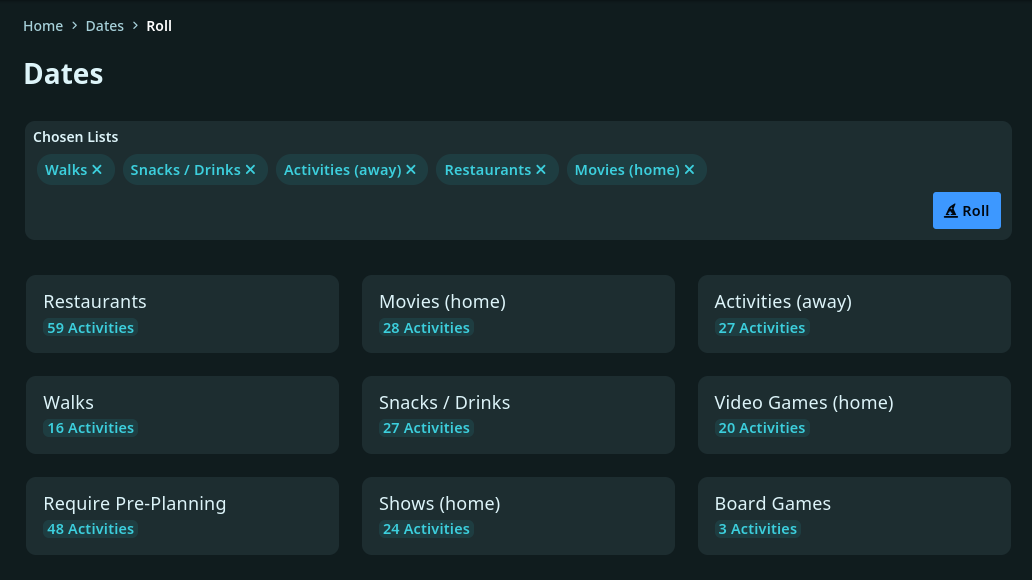
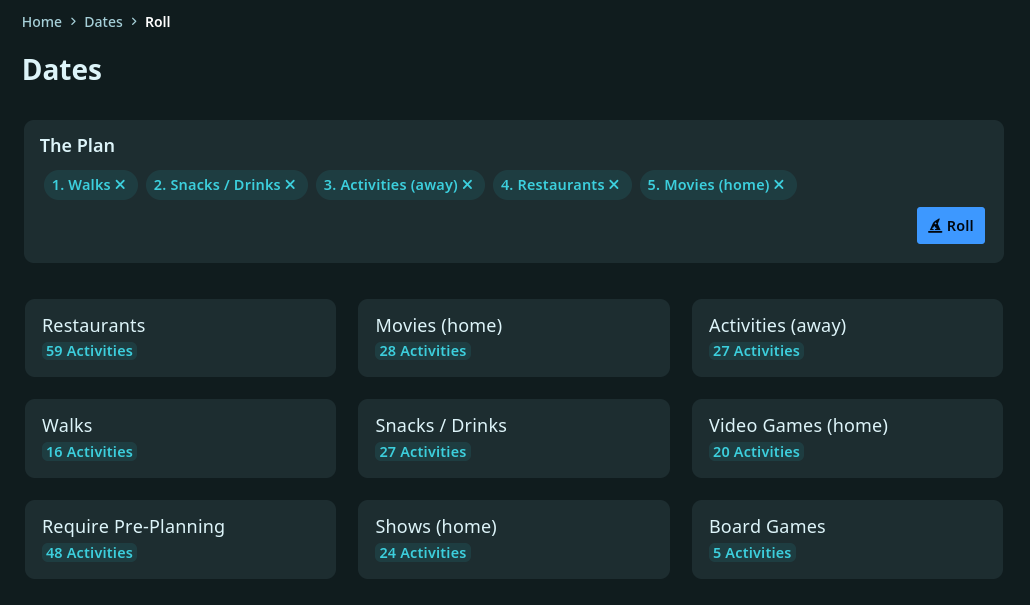
Prevent duplicate additions
This adds some extra validation and will try and avoid creating duplicates when adding a new category/list/activity.

diff --git a/src/lib/Home.svelte b/src/lib/Home.svelte
@@ -11,29 +11,36 @@
 	<span>Dice Chest</span>
 </h1>
 
-<p>Welcome to Dice Chest!</p>
+<div>
+	<p>Welcome to Dice Chest!</p>
 
-<p>
-	Get started by <a href={linkGen.categories.new()} class="inline-link">creating some categories</a
-	>. You can also create and view your categories from the sidebar menu.
-</p>
+	<p>
+		Get started by <a href={linkGen.categories.new()} class="inline-link"
+			>creating some categories</a
+		>. You can also create and view your categories from the sidebar menu.
+	</p>
 
-<p>
-	For more detailed information, check out <a href="/help" class="inline-link">the help guide</a>.
-</p>
+	<p>
+		For more detailed information, check out <a href="/help" class="inline-link">the help guide</a>.
+	</p>
+</div>
 
 <h2>Categories</h2>
 <div class="card-list">
 	{#each categories as category}
-		<a href={linkGen.categories.show(category.id)} class="card clickable p-4">
-			<div class="card-title p-0 f-row justify-content-between align-items-start">
-				<div class="card-title p-0">{category.name}</div>
-				<a href={linkGen.categories.roll(category.id)} class="button primary small" title="Roll">
-					<Icon icon="hat-wizard" variant="icon-only" />
-					<span class="sr-only">Roll</span>
-				</a>
-			</div>
-		</a>
+		<div class="card clickable card-split">
+			<a class="card-title card-left" href={linkGen.categories.show(category.id)}>
+				{category.name}
+			</a>
+			<a
+				href={linkGen.categories.roll(category.id)}
+				class="button primary small card-right"
+				title="Roll"
+			>
+				<Icon icon="hat-wizard" variant="icon-only" />
+				<span class="sr-only">Roll</span>
+			</a>
+		</div>
 	{:else}
 		<div class="empty-grid">
 			<p>You don't have any categories yet.</p>

diff --git a/src/routes/activity-lists/[activityListId]/+page.svelte b/src/routes/activity-lists/[activityListId]/+page.svelte
@@ -23,18 +23,24 @@
 
 <div class="card-list">
 	{#each data.activities as activity}
-		<a class="card clickable p-4" href={linkGen.activities.show(activity.id)}>
-			<div class="card-title p-0 f-row justify-content-between align-items-start">
-				<span>{activity.name}</span>
-				<a href={linkGen.activities.edit(activity.id)} class="button tertiary small" title="Edit">
-					<Icon icon="pen" variant="icon-only" />
-					<span class="sr-only">Edit</span>
-				</a>
-			</div>
-			{#if activity.description}
-				<div class="card-body sx-font-size-2 px-0 muted">{activity.description}</div>
-			{/if}
-		</a>
+		<div class="card clickable card-split">
+			<a class="card-left" href={linkGen.activities.show(activity.id)}>
+				<span class="card-title">
+					{activity.name}
+				</span>
+				{#if activity.description}
+					<p class="card-body sx-font-size-2 p-0 m-0 muted">{activity.description}</p>
+				{/if}
+			</a>
+			<a
+				href={linkGen.activities.edit(activity.id)}
+				class="button tertiary small card-right"
+				title="Edit"
+			>
+				<Icon icon="pen" variant="icon-only" />
+				<span class="sr-only">Edit {activity.name}</span>
+			</a>
+		</div>
 	{:else}
 		<div class="empty-grid">
 			<p>You don't have any activities in this list yet.</p>

diff --git a/src/routes/activity-lists/[activityListId]/activities/new/bulk/+page.svelte b/src/routes/activity-lists/[activityListId]/activities/new/bulk/+page.svelte
@@ -13,13 +13,20 @@
 	<textarea name="activitiesRaw" bind:value={bulkActivities} use:focus />
 
 	{#if activities.length}
-		<Fieldset legend="Activities Detected">
+		<Fieldset legend="Activities that will be created">
 			<ul>
 				{#each activities as act}
 					<li>
 						{act}
 						{#if act.length < 2}
 							<span class="sx-badge-red">Too short!</span>
+						{/if}
+						{#if alreadyIncluded(act)}
+							<span
+								class="sx-badge-orange"
+								title="An activity with this name already exists, a duplicate will not be created."
+								>Already exists, skipping</span
+							>
 						{/if}
 					</li>
 				{/each}
@@ -58,7 +65,8 @@
 		)
 	);
 
-	$: activitiesStringified = JSON.stringify(activities);
+	// skip adding duplicates
+	$: activitiesStringified = JSON.stringify(activities.filter((name) => !alreadyIncluded(name)));
 
 	$: disabled = checkDisabled(activities);
 
@@ -73,5 +81,9 @@
 			return true;
 		}
 		return false;
+	}
+
+	function alreadyIncluded(name: string) {
+		return data.activities.some((act) => act.name.toLowerCase() === name.trim().toLowerCase());
 	}
 </script>

diff --git a/src/routes/categories/[categoryId]/roll/+page.svelte b/src/routes/categories/[categoryId]/roll/+page.svelte
@@ -7,12 +7,15 @@
 </div>
 
 <div class="f-column gap-6">
-	<Fieldset legend="Chosen Lists">
+	<Fieldset legend="The Plan" size="large">
 		{#if !chosen.length}
-			<p class="muted">Select one or more activity lists from the options below</p>
+			<p class="muted text-align-center">
+				Select a sequence of activity lists below to plan your event.
+			</p>
 		{:else}
 			{#each chosen as choice, index}
 				<button class="sx-badge-cyan pill p-2" on:click={() => removeChoice(index)}>
+					{index + 1}.
 					{choice.name}
 					<Icon icon="times" />
 				</button>
@@ -44,10 +47,11 @@
 	import { Breadcrumbs, Fieldset, Icon } from 'sheodox-ui';
 	import { breadcrumbGen, linkGen } from '$lib/breadcrumbs';
 	import Title from '$lib/Title.svelte';
+	import type { ActivityList } from '$lib/types';
 
 	export let data;
 
-	let chosen: (typeof data)['activityLists'] = [];
+	let chosen: (ActivityList & { activityCount: number })[] = [];
 	$: chosenIds = chosen.map(({ id }: { id: string }) => id).join(',');
 
 	// todo use a real type

diff --git a/src/routes/activity-lists/[activityListId]/activities/new/+page.server.ts b/src/routes/activity-lists/[activityListId]/activities/new/+page.server.ts
@@ -1,18 +1,20 @@
-import { error, fail, redirect } from '@sveltejs/kit';
+import { error, fail } from '@sveltejs/kit';
 import type { Actions, PageServerLoad } from './$types';
-import { linkGen } from '$lib/breadcrumbs';
 import { ClientResponseError } from 'pocketbase';
 import { pbErrorToErrorString } from '$lib/util';
-import type { ActivityList, Category } from '$lib/types';
+import type { Activity, ActivityList, Category } from '$lib/types';
+
+const activityExpand = 'activity(activityList)';
 
 export const load = (async ({ locals, params }) => {
 	const activityList = await locals.pb
 		.collection('activity_list')
-		.getOne(params.activityListId, { expand: 'category' })
+		.getOne(params.activityListId, { expand: `category,${activityExpand}` })
 		.then(structuredClone);
 
 	return {
 		activityList: activityList as ActivityList,
+		activities: ((activityList as any).expand[activityExpand] as Activity[]) ?? [],
 		category: (activityList as any).expand.category as Category
 	};
 }) satisfies PageServerLoad;

diff --git a/src/routes/categories/[categoryId]/activity-lists/new/+page.server.ts b/src/routes/categories/[categoryId]/activity-lists/new/+page.server.ts
@@ -3,14 +3,19 @@ import type { Actions, PageServerLoad } from './$types';
 import { linkGen } from '$lib/breadcrumbs';
 import { pbErrorToErrorString } from '$lib/util';
 import { ClientResponseError } from 'pocketbase';
-import type { Category } from '$lib/types';
+import type { ActivityList, Category } from '$lib/types';
 
-export const load = (({ locals, params }) => {
+const activityListExpand = 'activity_list(category)';
+
+export const load = (async ({ locals, params }) => {
+	const category = (await locals.pb
+		.collection('category')
+		.getOne(params.categoryId, { expand: activityListExpand })
+		.then(structuredClone)) as Promise<Category>;
+
 	return {
-		category: locals.pb
-			.collection('category')
-			.getOne(params.categoryId)
-			.then(structuredClone) as Promise<Category>
+		category,
+		activityLists: (category as any).expand[activityListExpand] as ActivityList[]
 	};
 }) satisfies PageServerLoad;
 

diff --git a/src/routes/activity-lists/[activityListId]/activities/new/bulk/+page.server.ts b/src/routes/activity-lists/[activityListId]/activities/new/bulk/+page.server.ts
@@ -3,16 +3,19 @@ import type { Actions, PageServerLoad } from './$types';
 import { linkGen } from '$lib/breadcrumbs';
 import { ClientResponseError } from 'pocketbase';
 import { pbErrorToErrorString } from '$lib/util';
-import type { ActivityList, Category } from '$lib/types';
+import type { Activity, ActivityList, Category } from '$lib/types';
+
+const activityExpand = 'activity(activityList)';
 
 export const load = (async ({ locals, params }) => {
 	const activityList = await locals.pb
 		.collection('activity_list')
-		.getOne(params.activityListId, { expand: 'category' })
+		.getOne(params.activityListId, { expand: `category,${activityExpand}` })
 		.then(structuredClone);
 
 	return {
 		activityList: activityList as ActivityList,
+		activities: ((activityList as any).expand[activityExpand] as Activity[]) ?? [],
 		category: (activityList as any).expand.category as Category
 	};
 }) satisfies PageServerLoad;

diff --git a/src/routes/activity-lists/[activityListId]/activities/new/+page.svelte b/src/routes/activity-lists/[activityListId]/activities/new/+page.svelte
@@ -35,8 +35,12 @@
 
 		<ActivityForm bind:name bind:description />
 
+		{#if errors.duplicateName}
+			<Alert variant="error">There's already an activity with that name in this list.</Alert>
+		{/if}
+
 		<input type="hidden" name="activityList" value={data.activityList.id} />
-		<button class="primary" use:ripple>Create</button>
+		<button class="primary" use:ripple {disabled}>Create</button>
 		<p class="text-align-center">
 			Have a list? <a href={linkGen.activities.newBulk(data.activityList.id)} class="inline-link"
 				>Add in bulk.</a
@@ -54,6 +58,12 @@
 	export let data;
 	export let form;
 
+	let errors = { duplicateName: false };
 	let name = form?.name ?? '';
 	let description = form?.description ?? '';
+
+	$: errors.duplicateName = data.activities.some(
+		(act) => act.name.toLowerCase() === name.trim().toLowerCase()
+	);
+	$: disabled = errors.duplicateName;
 </script>

diff --git a/src/routes/categories/[categoryId]/activity-lists/new/+page.svelte b/src/routes/categories/[categoryId]/activity-lists/new/+page.svelte
@@ -11,9 +11,15 @@
 			Activity lists group similar activities. For planning a party you could make activity lists
 			for food, group activities, and movies.
 		</p>
-		<ActivityListForm {name} />
+		<ActivityListForm bind:name />
 
-		<button class="primary" use:ripple>Create</button>
+		{#if duplicateName}
+			<Alert variant="error"
+				>There's already an activity list with that name in this category.</Alert
+			>
+		{/if}
+
+		<button class="primary" use:ripple {disabled}>Create</button>
 	</div>
 </form>
 
@@ -27,4 +33,10 @@
 	export let form;
 
 	let name = form?.name ?? '';
+
+	$: duplicateName = data.activityLists.some(
+		(c) => c.name.toLowerCase() === name.trim().toLowerCase()
+	);
+
+	$: disabled = duplicateName;
 </script>

diff --git a/src/routes/categories/new/+page.svelte b/src/routes/categories/new/+page.svelte
@@ -14,8 +14,11 @@
 			<Alert variant="error">{form.validationMessage}</Alert>
 		{/if}
 		<CategoryForm bind:name />
+		{#if duplicateName}
+			<Alert variant="error">There's already a category with that name.</Alert>
+		{/if}
 
-		<button class="primary" use:ripple>Create</button>
+		<button class="primary" use:ripple {disabled}>Create</button>
 	</div>
 </form>
 
@@ -25,7 +28,14 @@
 	import { breadcrumbGen } from '$lib/breadcrumbs';
 	import CategoryForm from '$lib/CategoryForm.svelte';
 
+	export let data;
 	export let form;
 
 	let name = form?.name ?? '';
+
+	$: duplicateName = data.categories.some(
+		(c) => c.name.toLowerCase() === name.trim().toLowerCase()
+	);
+
+	$: disabled = duplicateName;
 </script>

diff --git a/src/routes/+layout.svelte b/src/routes/+layout.svelte
@@ -46,6 +46,23 @@
 		a.card {
 			display: block;
 		}
+		.card-split {
+			display: flex;
+			justify-content: space-between;
+			align-items: center;
+
+			.card-left {
+				flex: 1;
+				padding: var(--sx-spacing-4);
+			}
+			// remove padding fromm the title, as long as it's not the only thing on the left
+			.card-title:not(.card-left) {
+				padding: 0;
+			}
+			.card-right {
+				margin: var(--sx-spacing-4);
+			}
+		}
 	}
 
 	// used to style an empty state message in the category/list/activity selection grids
@@ -78,9 +95,6 @@
 	}
 
 	@media (max-width: 700px) {
-		.card-list {
-			grid-template-columns: 1fr;
-		}
 		.card-list a.card {
 			flex-basis: auto;
 		}

diff --git a/src/routes/categories/[categoryId]/roll/+page.server.ts b/src/routes/categories/[categoryId]/roll/+page.server.ts
@@ -6,6 +6,7 @@ export const load = (async ({ locals, params }) => {
 		.collection('category')
 		.getOne(params.categoryId)
 		.then(structuredClone);
+
 	const activityLists = await locals.pb
 		.collection('activity_lists_with_count')
 		.getFullList({ categoryId: params.categoryId })
@@ -13,6 +14,6 @@ export const load = (async ({ locals, params }) => {
 
 	return {
 		category: category as Category,
-		activityLists: activityLists as ActivityList & { activityCount: number }
+		activityLists: activityLists as (ActivityList & { activityCount: number })[]
 	};
 }) satisfies PageServerLoad;
